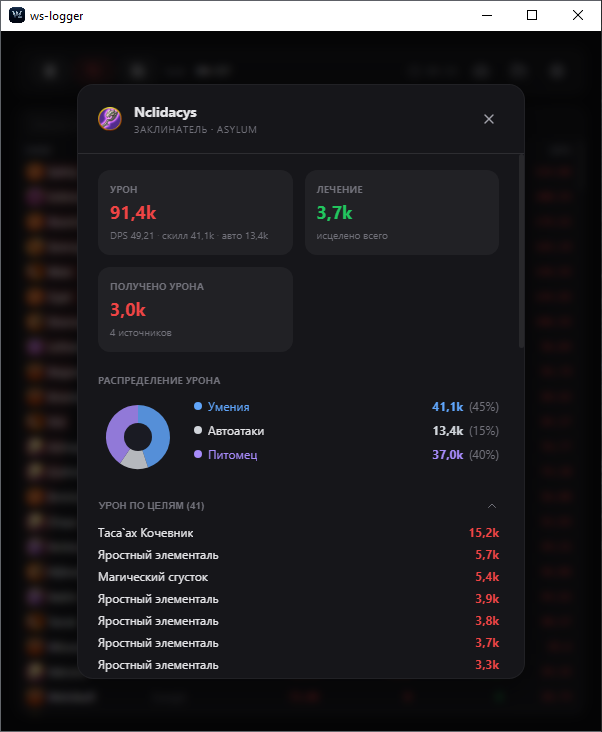
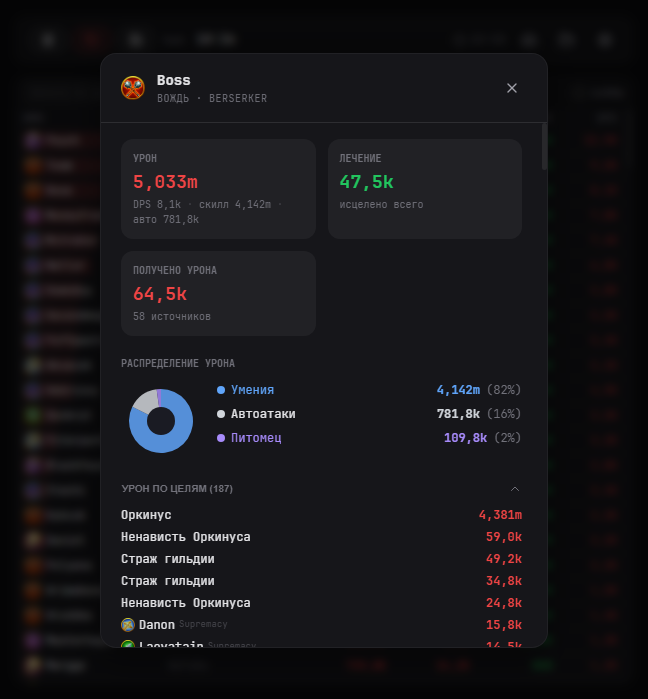
2.4.2 release

diff --git a/Readme.md b/Readme.md
@@ -4,22 +4,22 @@
 <p align="center">
 <strong>ws-logger </strong>
 </p>
-Приложение для отслеживания боевой статистики в игре Warspear Online. Оно автоматически определяет нанесенный урон и исцеление игроков, отображая данные в виде таблицы.
+Приложение для отслеживания боевой статистики в игре Warspear Online.
 
 ## Возможности
 - Отслеживание статистики урона и исцеления в реальном времени.
 - Детальные метрики по нанесенному урону, полученному урону, исцелению.
 - Корректное присвоение урона и исцеления от питомцев их владельцам.
-- Возможность сортировки данных по любому столбцу.
+- Отображение наличия баффов и питомцев.
 - Фильтрация по конкретной цели, PvP, PvE статистика.
 - Клик по игроку для просмотра детальной статистики его урона по целям.
 - Экспорт результатов в виде таблицы Excel или SQLite (.db).
-- Управление настройками сервера, сетевого интерфейса и версии клиента внутри приложения.
+- Поддержка языков: Русский, Ebglish, Português.
 
 ## Требования
 - **ОС**: Windows 10/11 (x64)
 - **Драйвер Npcap**: Необходим для захвата сетевого трафика.
-- **Версия игры**: Warspear Online 13.4.3 (поддерживаются как Обычная, так и Steam версии).
+- **Версия игры**: Warspear Online 13.5.0 (поддерживаются как Обычная, так и Steam версии).
 - **Права администратора**: Требуются для доступа к сетевым интерфейсам.
 
 ## Установка
@@ -39,10 +39,11 @@
 6. Приложение автоматически начнет отслеживать события. По завершении боя или рейда используйте кнопку **"Стоп"**.
 
 <p align="center">
-  <img  src="img/screenshot.png"/>
+  <img src="img/screenshot.png" width="48%" />
+  <img src="img/screenshot1.png" width="48%" />
 </p>
 <p align="center">
-  <img  src="img/screenshot2.png"/>
+  <img  src="img/screenshot2.png" width="50%"/>
 </p>
 
 ## Конфигурация
@@ -57,7 +58,7 @@
 ## Решение проблем
 1.  **Программа не видит никаких событий:**
     - Убедитесь, что вы запустили программу с правами администратора.
-    - Повтороно выберете в настройках правильный сетевой интерфейс.
+    - Повтороно выберете в настройках правильный сетевой интерфейс (для RU-серверов может работать вариант RU-Общий).
     - Убедитесь, что правильно выбран ваш игровой сервер.
     - Перезапустите программу, предварительно войдите в своего игрового персонажа.
 2.  **Антивирус блокирует приложение:**
